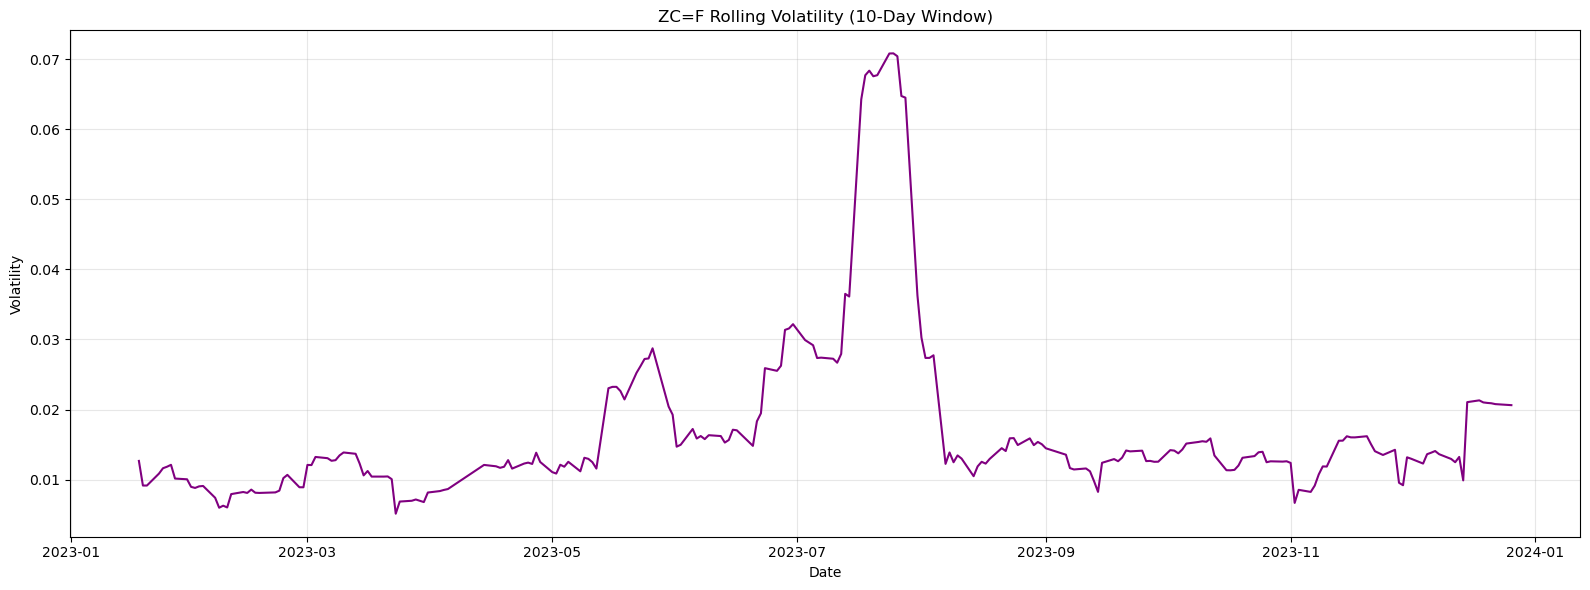
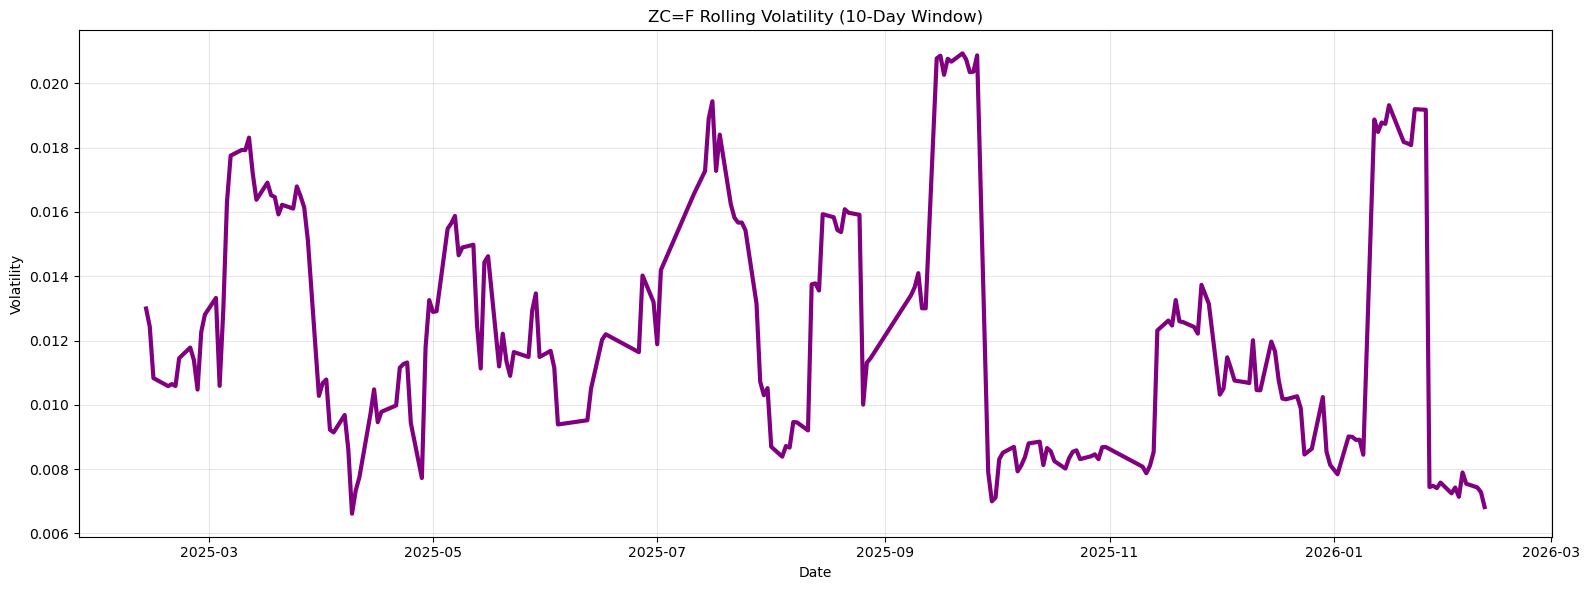
update

diff --git a/neuralclassy.py b/neuralclassy.py
@@ -6,10 +6,12 @@ import torch.nn as nn
 import torch.optim as optim
 import matplotlib.pyplot as plt
 from sklearn.preprocessing import StandardScaler
+import mplfinance as mpf
+
 
 
 ticker = "ZC=F"
-df = yf.download(ticker, start="2020-01-01", end="2026-02-01")
+df = yf.download(ticker, start="2020-01-01", end="2026-02-24")
 df.dropna(inplace=True)
 
 # FIX 1: Flatten MultiIndex columns
@@ -56,6 +58,7 @@ df = df.replace([np.inf, -np.inf], np.nan)
 df = df.dropna(subset=features + ["label_next_week"])
 
 print(df.head())
+window_df = df.last("365D")
 
 # 8. Prepare features + target
 X = df[features].values
@@ -76,8 +79,8 @@ X_test = X_tensor[split_idx:]
 y_train = y_tensor[:split_idx]
 y_test = y_tensor[split_idx:]
 
-dates_test = df.index[split_idx:]
-prices_test = df["Close"].iloc[split_idx:]
+dates_test = window_df.index
+prices_test = window_df["Close"]
 
 
 # Model
@@ -130,6 +133,11 @@ print(f"\n7-Day Ahead Forecast Accuracy: {accuracy:.2%}")
 
 pred_np = predictions.numpy()
 
+# Use the last 1-year window for plotting
+window_df = df.last("365D")
+
+# Align predictions to the same window
+pred_np = pred_np[-len(window_df):]
 
 # Center day of the test-set plot
 center_date = dates_test[int(len(dates_test) / 2)]
@@ -172,12 +180,70 @@ plt.show()
 
 
 # Volatility Plot
+df["return"] = df["Close"].pct_change()
+df["vol_pct"] = df["return"].rolling(10).std() * np.sqrt(252) * 100
+df["vol_trend_fast"] = df["vol_pct"].rolling(5).mean()
+df["vol_trend_slow"] = df["vol_pct"].rolling(20).mean()
 plt.figure(figsize=(16, 6))
-plt.plot(df.index, df["volatility"], color="purple", linewidth=3)
-plt.title(f"{ticker} Rolling Volatility (10-Day Window)")
-plt.xlabel("Date")
-plt.ylabel("Volatility")
-plt.grid(True, alpha=0.3)
-plt.tight_layout()
-plt.savefig("volatility_plot.png", bbox_inches="tight")
+plt.plot(df.index, df["vol_trend_fast"], label="Short-term Vol (5d)", color="orange")
+plt.plot(df.index, df["vol_trend_slow"], label="Long-term Vol (20d)", color="blue", linestyle="--")
+plt.title(f"{ticker} Annualized Volatility Trends (2026)")
+plt.ylabel("Volatility (%)")
+plt.legend()
 plt.show()
+
+ticker = "ZC=F"
+dflongshort = yf.download(ticker, start="2024-01-01", end="2026-02-24", auto_adjust=True)
+
+
+if isinstance(dflongshort.columns, pd.MultiIndex):
+    dflongshort.columns = dflongshort.columns.get_level_values(0)
+dflongshort.dropna(inplace=True)
+
+
+price_range = dflongshort['High'] - dflongshort['Low']
+dflongshort['buy_ratio'] = np.where(price_range > 0, (dflongshort['Close'] - dflongshort['Low']) / price_range, 0.5)
+dflongshort['vol_long'] = dflongshort['Volume'] * dflongshort['buy_ratio']
+dflongshort['vol_short'] = dflongshort['Volume'] * (1 - dflongshort['buy_ratio'])
+plot_df = dflongshort.tail(30)
+
+
+ap = [
+    mpf.make_addplot(plot_df['vol_long'], type='bar', color='#26a69a', panel=0, ylabel='Volume Blocks'),
+    mpf.make_addplot(plot_df['vol_short'], type='bar', color='#ef5350', panel=0, bottom=plot_df['vol_long'])
+]
+
+
+mpf.plot(plot_df, 
+         type='line',          
+         linecolor='none',     
+         addplot=ap,           
+         style='charles',      
+         title=f"\n{ticker} Volume Building Blocks",
+         figsize=(16, 8),
+         datetime_format='%b %d',
+         xrotation=45,
+         tight_layout=True,
+         axisoff=False)        
+
+
+ticker = "ZC=F"
+start_date = "2024-01-01" 
+end_date = "2026-02-24" 
+dfcandlestick = yf.download(ticker, start=start_date, end=end_date, auto_adjust=True)
+
+
+if isinstance(dfcandlestick.columns, pd.MultiIndex):
+    dfcandlestick.columns = dfcandlestick.columns.get_level_values(0)
+
+dfcandlestick.dropna(inplace=True)
+plot_df = dfcandlestick.tail(30)
+
+mpf.plot(plot_df, 
+         type='candle',         
+         style='yahoo',         
+         title=f"{ticker} Candlestick Chart (2026)",
+         ylabel='Price ($)',           
+         mav=(5, 20),           # Optional: Adds 5-day and 20-day moving averages
+         tight_layout=True,
+         figsize=(16, 8))

diff --git a/test.py b/test.py
@@ -8,10 +8,10 @@ import torch.nn.functional as F
 from sklearn.preprocessing import StandardScaler
 import matplotlib.pyplot as plt
 
-
+# --- CONFIGURATION ---
 ticker = "ZC=F"
 start_date = "2023-01-01"
-end_date = "2026-02-24"  
+end_date = "2026-02-24"  # Updated to current 2026 data
 H = 3 
 EPOCHS = 50
 LR = 0.001
@@ -96,7 +96,6 @@ for epoch in range(EPOCHS):
     optimizer.step()
     if epoch % 10 == 0:
         print(f"Epoch {epoch:02d} | Loss: {loss.item():.4f}")
-
 
 model.eval()
 with torch.no_grad():
